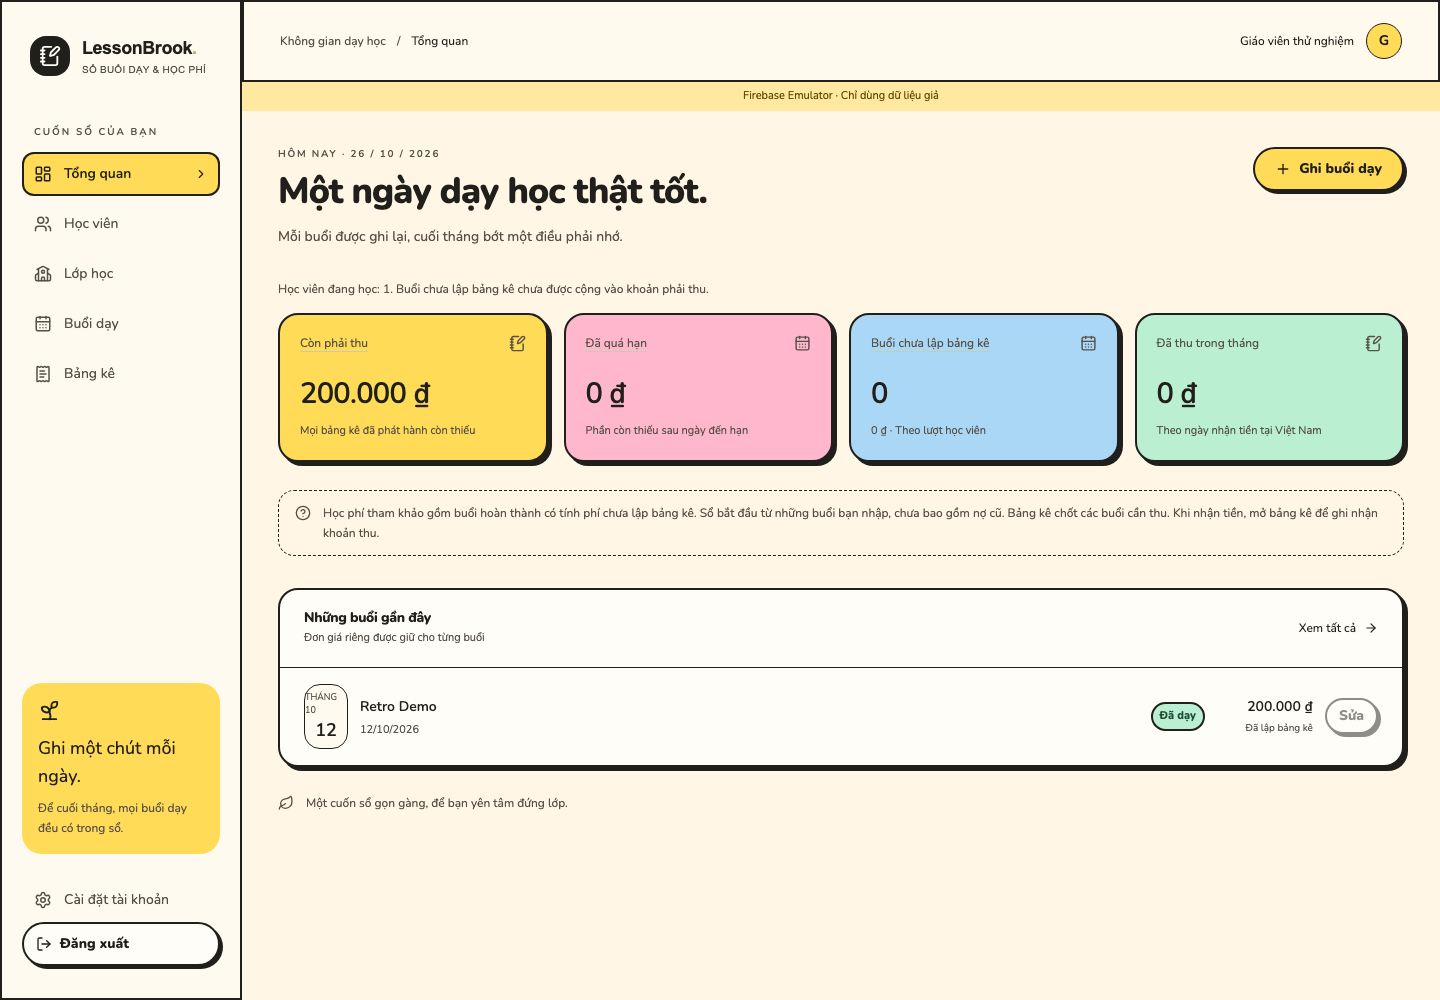
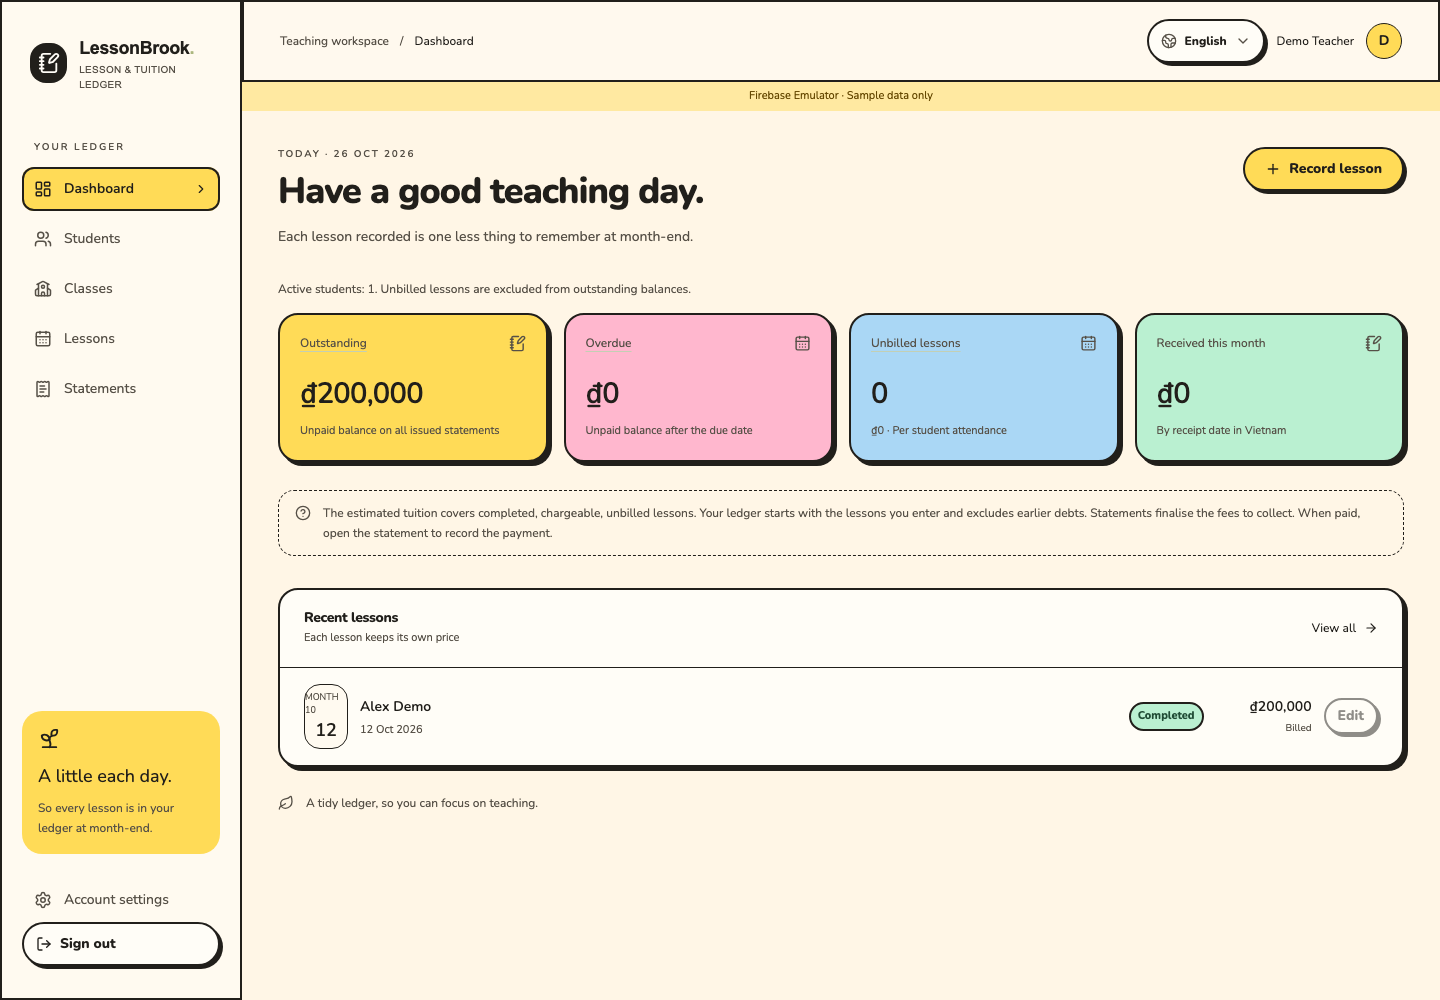
Use English dashboard screenshot in documentation

diff --git a/docs/images/README.md b/docs/images/README.md
@@ -1,5 +1,7 @@
 # Documentation images
 
-`dashboard-playful-retro.png` is an unedited 1440 × 1000 browser capture of the community edition dashboard, using Playful Retro Neo-Brutalism. It was captured on 26 October 2026 from the guarded local Firebase Emulator workflow with a fictional teacher and student. The visible Emulator banner identifies the sample environment.
+`dashboard-playful-retro.png` is an unedited 1440 × 1000 browser capture of LessonBrook’s English dashboard in Playful Retro Neo-Brutalism. It was captured on 26 October 2026 from the guarded local Firebase Emulator workflow with fictional “Demo Teacher” and “Alex Demo” records. The visible Emulator banner identifies the sample environment.
 
-The image contains no real teacher/student records, email addresses, account identifiers, credentials or browser chrome. Its PNG contains only image chunks, without text metadata. Keep sample screenshots separate from private operational screenshots, which remain ignored under `docs/screenshots/`.
+The image contains no real teacher/student records, email addresses, account identifiers, credentials or browser chrome. Its PNG contains only image chunks, without text metadata.
+
+This image previews the English interface. The community edition currently ships a Vietnamese UI, as noted in its README; adding this documentation image does not change the application language.

diff --git a/README.md b/README.md
@@ -12,9 +12,9 @@ Repository documentation defaults to English. The application interface is curre
 
 ## Preview
 
-![LessonBrook dashboard in Playful Retro Neo-Brutalism, showing pastel tuition summary cards and a sample lesson.](docs/images/dashboard-playful-retro.png)
+![English LessonBrook dashboard in Playful Retro Neo-Brutalism, showing pastel tuition summary cards and a sample lesson.](docs/images/dashboard-playful-retro.png)
 
-Playful Retro Neo-Brutalism · Desktop view · Fictional sample data captured locally with Firebase Emulator.
+English interface preview · Playful Retro Neo-Brutalism · Fictional sample data captured locally with Firebase Emulator. The community edition UI is currently Vietnamese.
 
 ## Features
 
